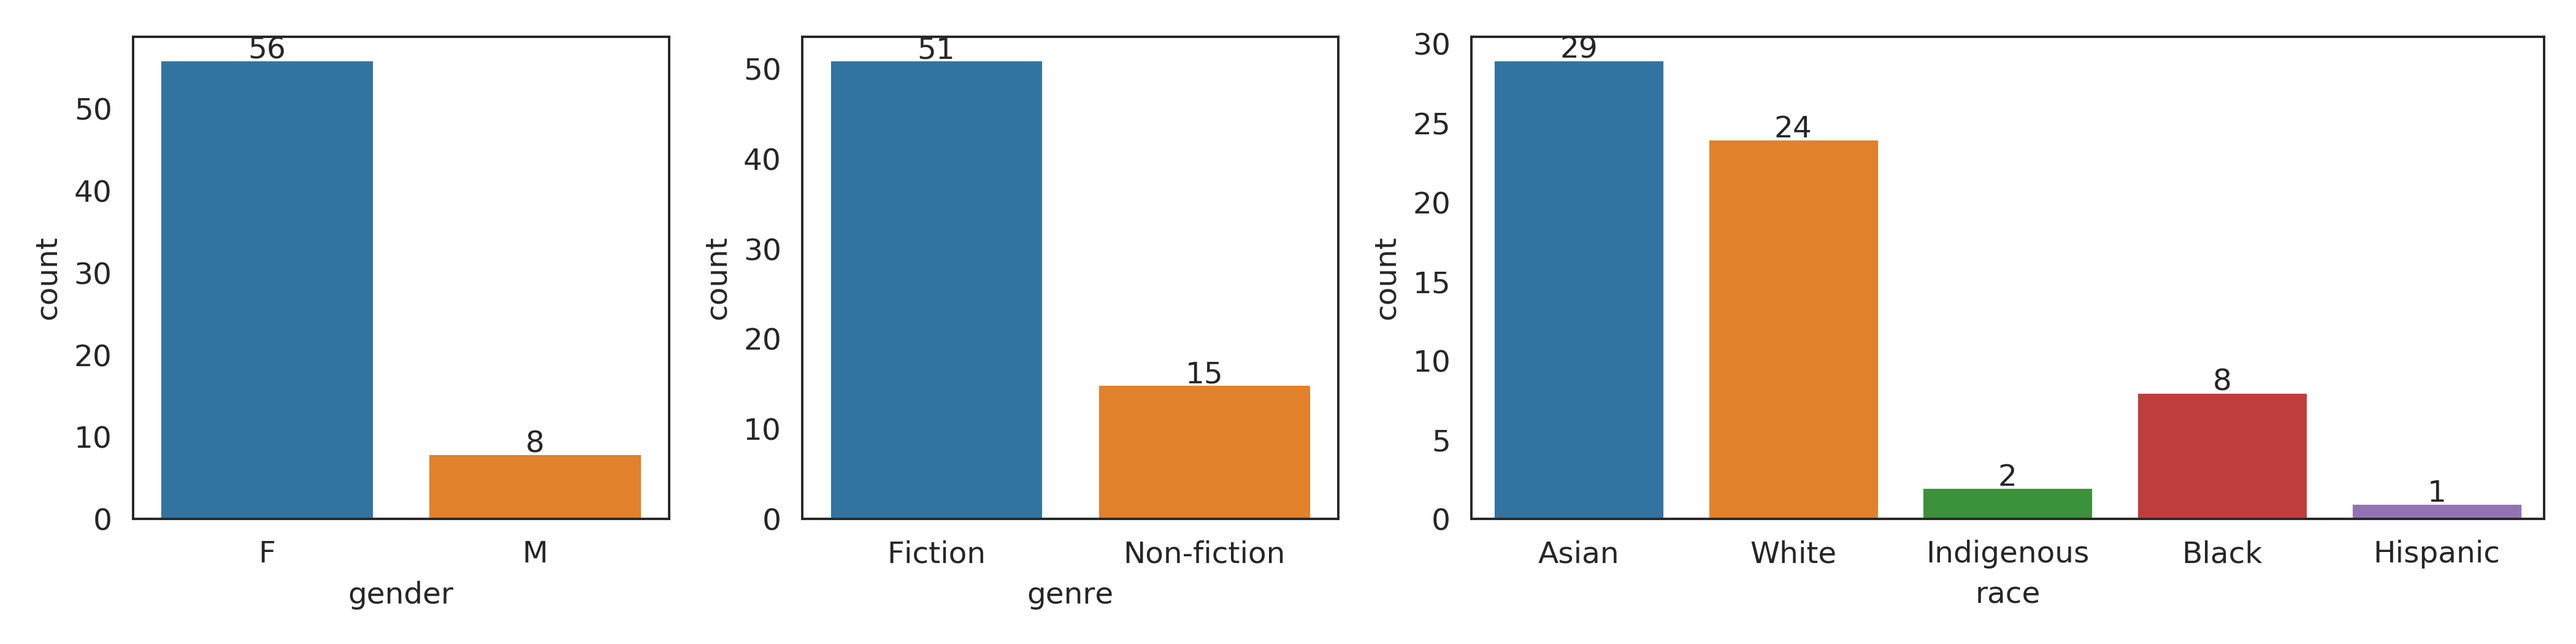
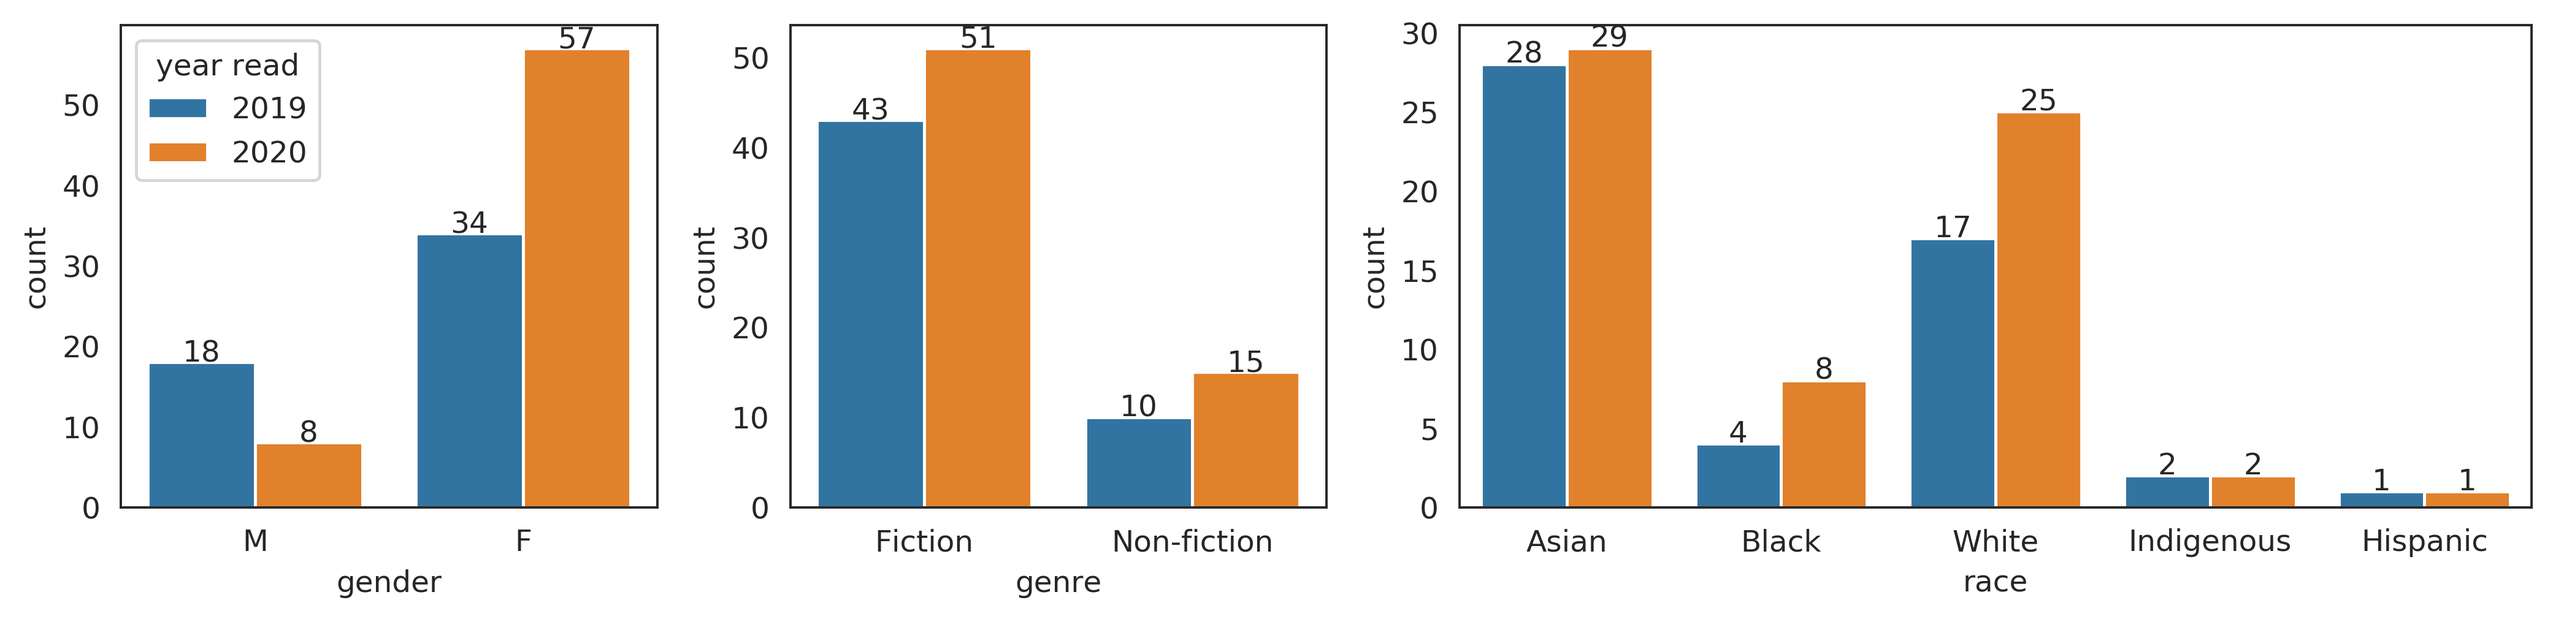
Finish 2020 analysis.

diff --git a/analysis_2020.py b/analysis_2020.py
@@ -8,31 +8,36 @@ pal = sns.color_palette()
 
 
 df = pd.read_csv('books.csv')
-df = df[df['date'].apply(lambda x: str(x)[-2:] == '20')]
-demo = df[['race2', 'sex', 'Genre']]
-demo = demo.rename(columns={'sex': 'gender', 'race2': 'race', 'Genre': 'genre'})
+year_read = ['20' + str(x)[-2:] for x in df['date']]
+# year_read = [int(x) for x in year_read]
+df['year_read'] = year_read
+df = df[df['year_read'].isin(['2019', '2020'])]
+demo = df[['race2', 'sex', 'Genre', 'year_read']]
+demo = demo.rename(columns={'sex': 'gender', 'race2': 'race', 'Genre': 'genre', 'year_read': 'year read'})
 
 fig, axs = plt.subplots(1, 3, figsize=(12, 3), gridspec_kw={'width_ratios': [1, 1, 2]})
 for ax, x in zip(axs, ['gender', 'genre', 'race']):
-    a = sns.countplot(x=x, data=demo, ax=ax)
+    a = sns.countplot(x=x, data=demo, ax=ax, hue='year read')
+    if x != 'gender':
+        ax.get_legend().remove()
     for p in a.patches:
         height = p.get_height()
         if ~np.isnan(height):
             a.text(p.get_x() + p.get_width() / 2., height + 0.1, int(height), ha="center")
 _ = fig.tight_layout()
-_ = fig.savefig('demo2020.png', dpi=350)
+_ = fig.savefig('demo2020.png', dpi=350, bbox_inches='tight')
 
-graph = sns.catplot(x='race', hue='gender', col='genre', kind='count', data=demo)
+graph = sns.catplot(x='race', hue='gender', col='genre', kind='count', data=demo[demo['year read'] == '2020'])
 for a in graph.axes[0]:
     for p in a.patches:
         height = p.get_height()
         if ~np.isnan(height):
             a.text(p.get_x() + p.get_width() / 2., height + 0.1, int(height), ha="center")
-_ = plt.savefig('demo_facet2020.png', dpi=350)
+_ = plt.savefig('demo_facet2020.png', dpi=350, bbox_inches='tight')
 
-fig = plt.figure()
-graph = sns.histplot(data=df, x='year', discrete=True)
-a = graph.axes
+fig, ax = plt.subplots(1, 1)
+df = df[df['year_read'].isin(['2019', '2020'])]
+a = sns.histplot(data=df, x='year', hue='year_read', ax=ax, discrete=True, multiple='dodge')
 for p in a.patches:
     height = p.get_height()
     if height > 0.5:
